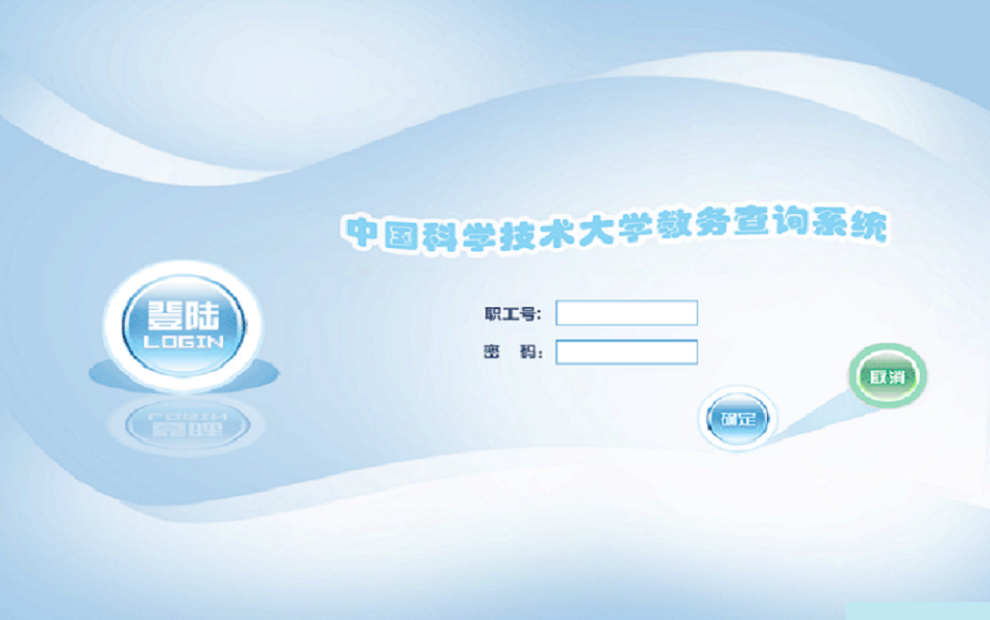
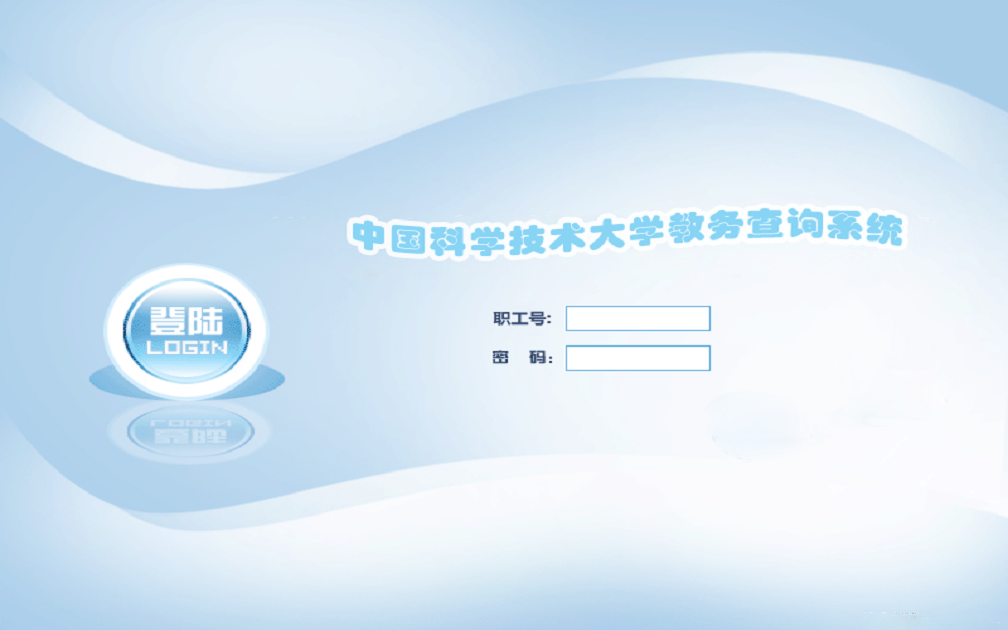
this have the login

diff --git a/login.html b/login.html
@@ -1,48 +1,26 @@
-<div class="content">
-	<div>
-		<div class="velcome">欢迎来到中科大教务查询系统</div>
-	</div>
-	<fieldset>
-	<legend>登录区域</legend>
-	<form action="" method="post">
-		<table>
-			<tr><th colspan="2">请登录</th></tr>
-			<tr>
-				<td>教师职工号：</td>
-				<td><input type="text" name="name" value="请输入职工号"/></td>
-			</tr>
-			<tr>
-				<td>密码：</td>
-				<td><input type="password" name="passsword" value=""/></td>
-			</tr>
-			<tr>
-				<td>验证码：</td>
-				<td><input type="text" name="checkCode" value=""/></td>
-			</tr>
-			<tr>
-				<th colspan="2"><input type="submit" value="登录"/>
-				<input type="reset" name="passsword" value="清除数据"/></th>
-			</tr>
-		</table>
-
-
-
-
-	</form>
-
-
-
-
-
-	</fieldset>
-
-	<div id="footer">
-		<div id="copy">
-			中国科学技术大学
-		</div>
-	</div>
-
-</div>
-
-
+<!DOCTYPE html PUBLIC "-//W3C//DTD XHTML 1.0 Transitional//EN" "http://www.w3.org/TR/xhtml1/DTD/xhtml1-transitional.dtd">
+<html xmlns="http://www.w3.org/1999/xhtml">
+<head>
+<meta http-equiv="Content-Type" content="text/html; charset=UTF-8" />
 <link rel="stylesheet" type="text/css" href="css/login.css">
+<link rel="stylesheet" type="text/css" href="css/footer.css">
+<title>登录系统</title>
+</head>
+<body>
+<form id="form1" name="form1" method="post" action="main.html">
+ <div id="username" class="enter">
+        <input type="text" name="username" />
+ </div>
+ <div id="psd" class="enter"> 
+        <input type="text" name="password" />
+ </div>
+ <div><a href="E:\firstyear\projects\jiaowuchakexitong\main.html"></a></div>
+ <div id="towButton"><input type="submit" name="queding" value="登录">&nbsp;&nbsp; <input type="reset" name="passsword" value="清除"/></div>
+</form>
+<div id="footer">
+    <div id="copy">
+      中国科学技术大学
+    </div>
+  </div>
+</body>
+</html>

diff --git a/css/login.css b/css/login.css
@@ -1,30 +1,19 @@
-
-fieldset{
-	width:400px;
-	margin: 0 auto;
+body{
+	background-image: url(../images/login.png);
 }
-table{
-	border: 1px solid;
-	margin: 0 auto;
-	width: 300px;
-	height: 150px;
-	border-collapse: 0;
+#username{
+	margin-top: 305px;
+	margin-left: 555px;
 }
-table tr td{
-	border: 1px solid;
+#psd{
+	margin-left: 555px;
+	margin-top: 10px;
 }
-img{
-	height: 30px;
+.enter input{
+	width: 147px;
+	height: 22px;
 }
-.content{
-
-	width: 100%;
-	background-image: url(images/login.png);
-}
-.velcome{
+#towButton{
 	margin-top: 20px;
-	font-size: 48px;
-	margin: 0 auto;	
-	text-align: center;
-
+	margin-left: 570px;
 }

diff --git a/main.html b/main.html
@@ -33,7 +33,7 @@
 					<option value="5">五教</option>
 					<option value="6">六教</option>
 				</select></li>
-				<li>您好</li>
+				<li>老师，您好</li>
 				<li> 本周是第16周</li>
 				<li id="time"> </li>
 				<li ><select id="week">
@@ -51,7 +51,6 @@
 					<option>下午</option>
 					<option>晚上</option>
 				</select></li>
-				<li><button value="查询">查询</button></li>
 			</ul>
 
 		</div>
